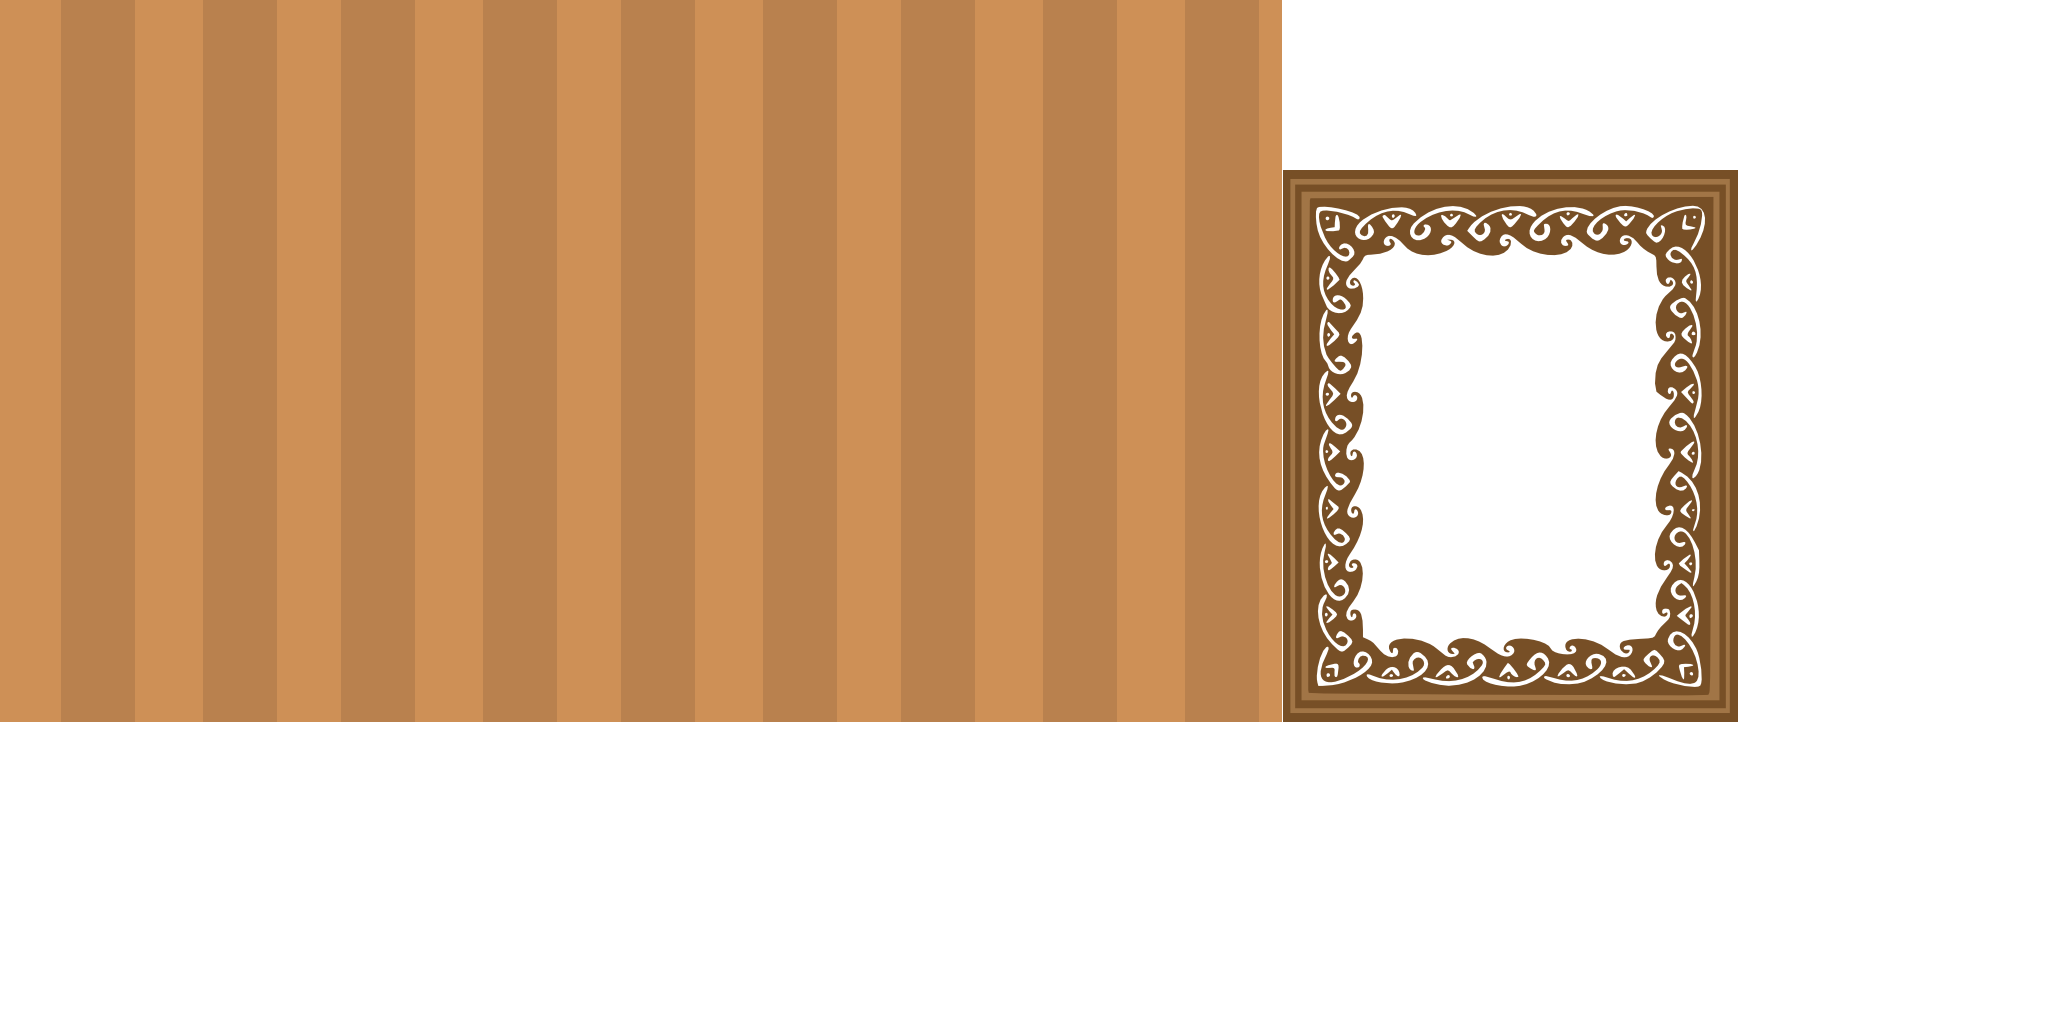
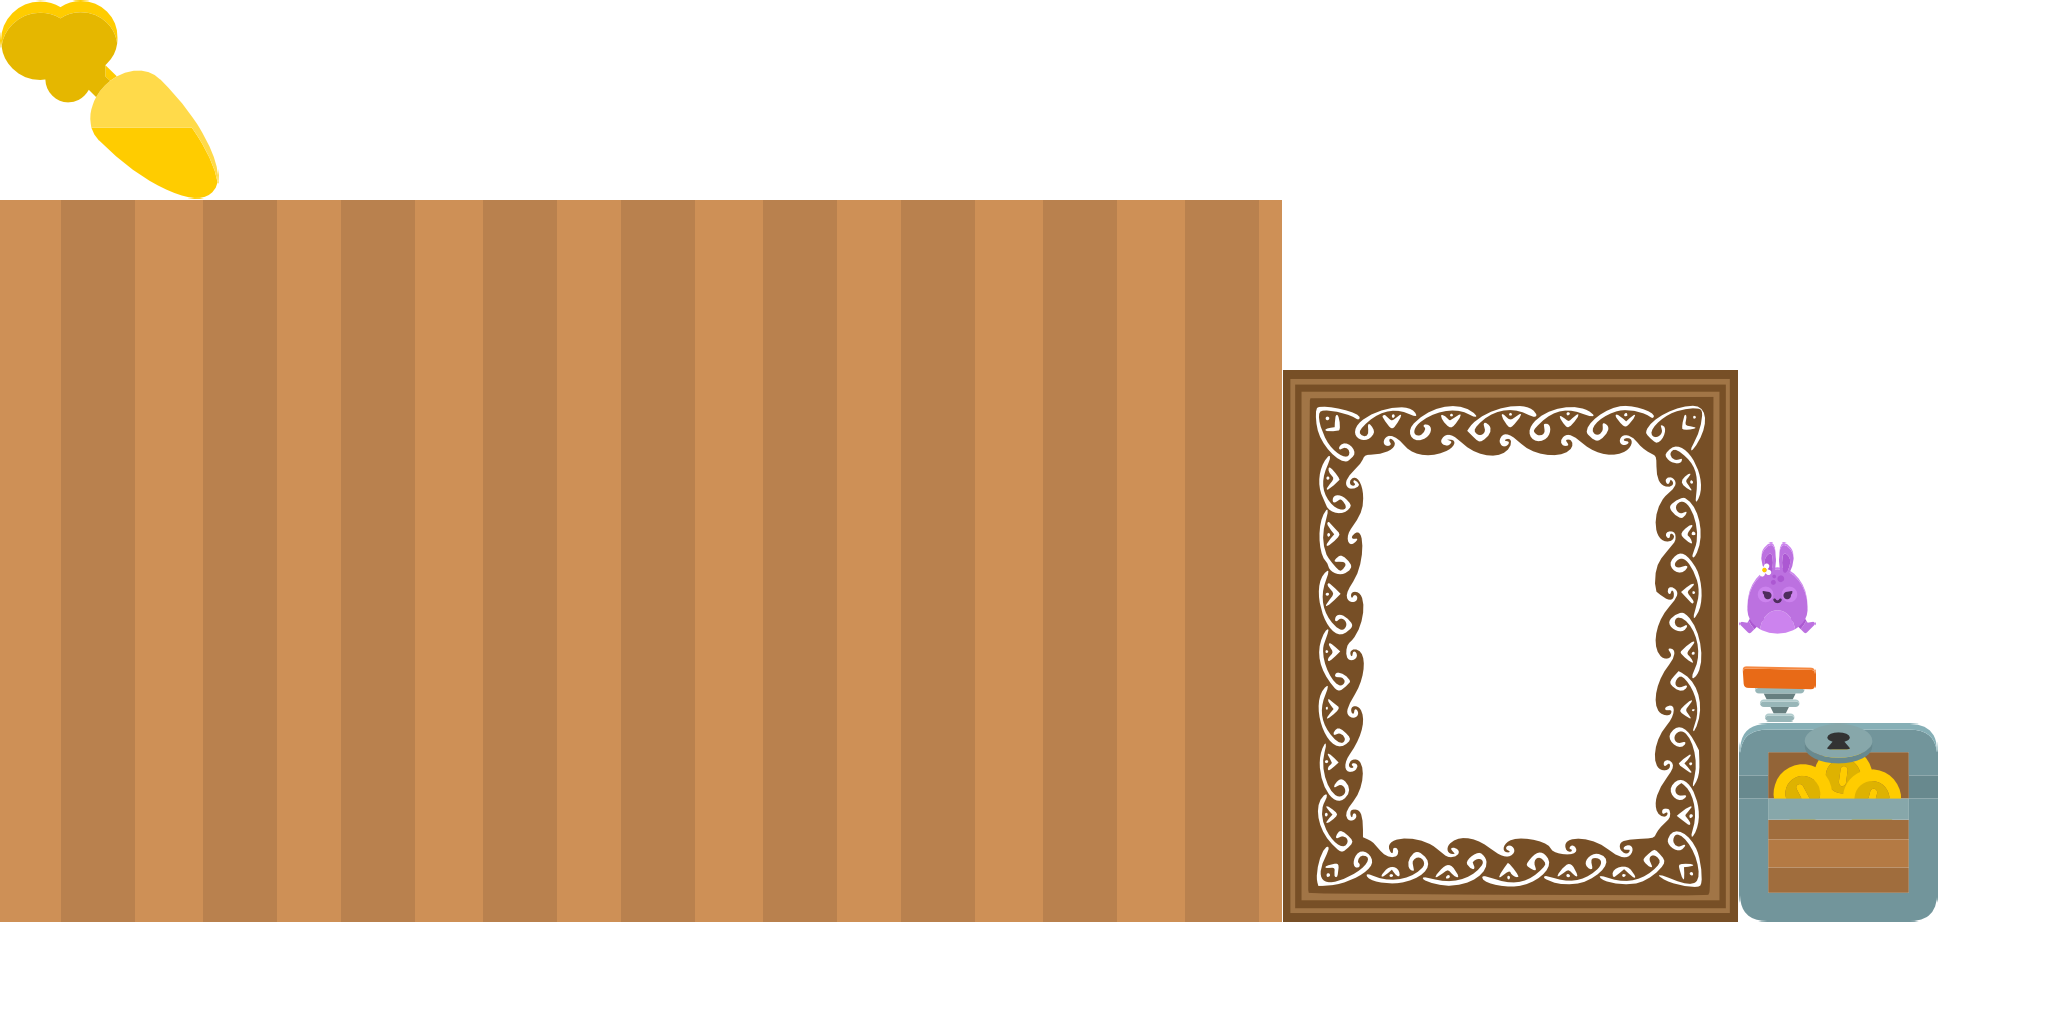
Added intro screen assets

diff --git a/core/src/com/epifania/screens/IntroScreen.java b/core/src/com/epifania/screens/IntroScreen.java
@@ -7,6 +7,7 @@ import com.badlogic.gdx.audio.Sound;
 import com.badlogic.gdx.files.FileHandle;
 import com.badlogic.gdx.graphics.Texture;
 import com.badlogic.gdx.graphics.g2d.SpriteBatch;
+import com.badlogic.gdx.graphics.g2d.TextureAtlas;
 import com.badlogic.gdx.maps.tiled.TiledMap;
 import com.badlogic.gdx.maps.tiled.TmxMapLoader;
 import com.badlogic.gdx.scenes.scene2d.InputEvent;
@@ -110,7 +111,7 @@ public class IntroScreen extends ScreenAdapter {
         body.setWrap(true);
         body.setWidth(stage.getWidth()*0.75f);
 
-        image = new Image(new Texture(Gdx.files.internal("user interface/placeHolder.png")));
+        image = new Image(Assets.instance.get("user interface/level_selection.atlas", TextureAtlas.class).findRegion("intro"+(level+1)));
 
         loading = new Image(skin.getDrawable("loading"));
         loading.setOrigin(Align.center);
